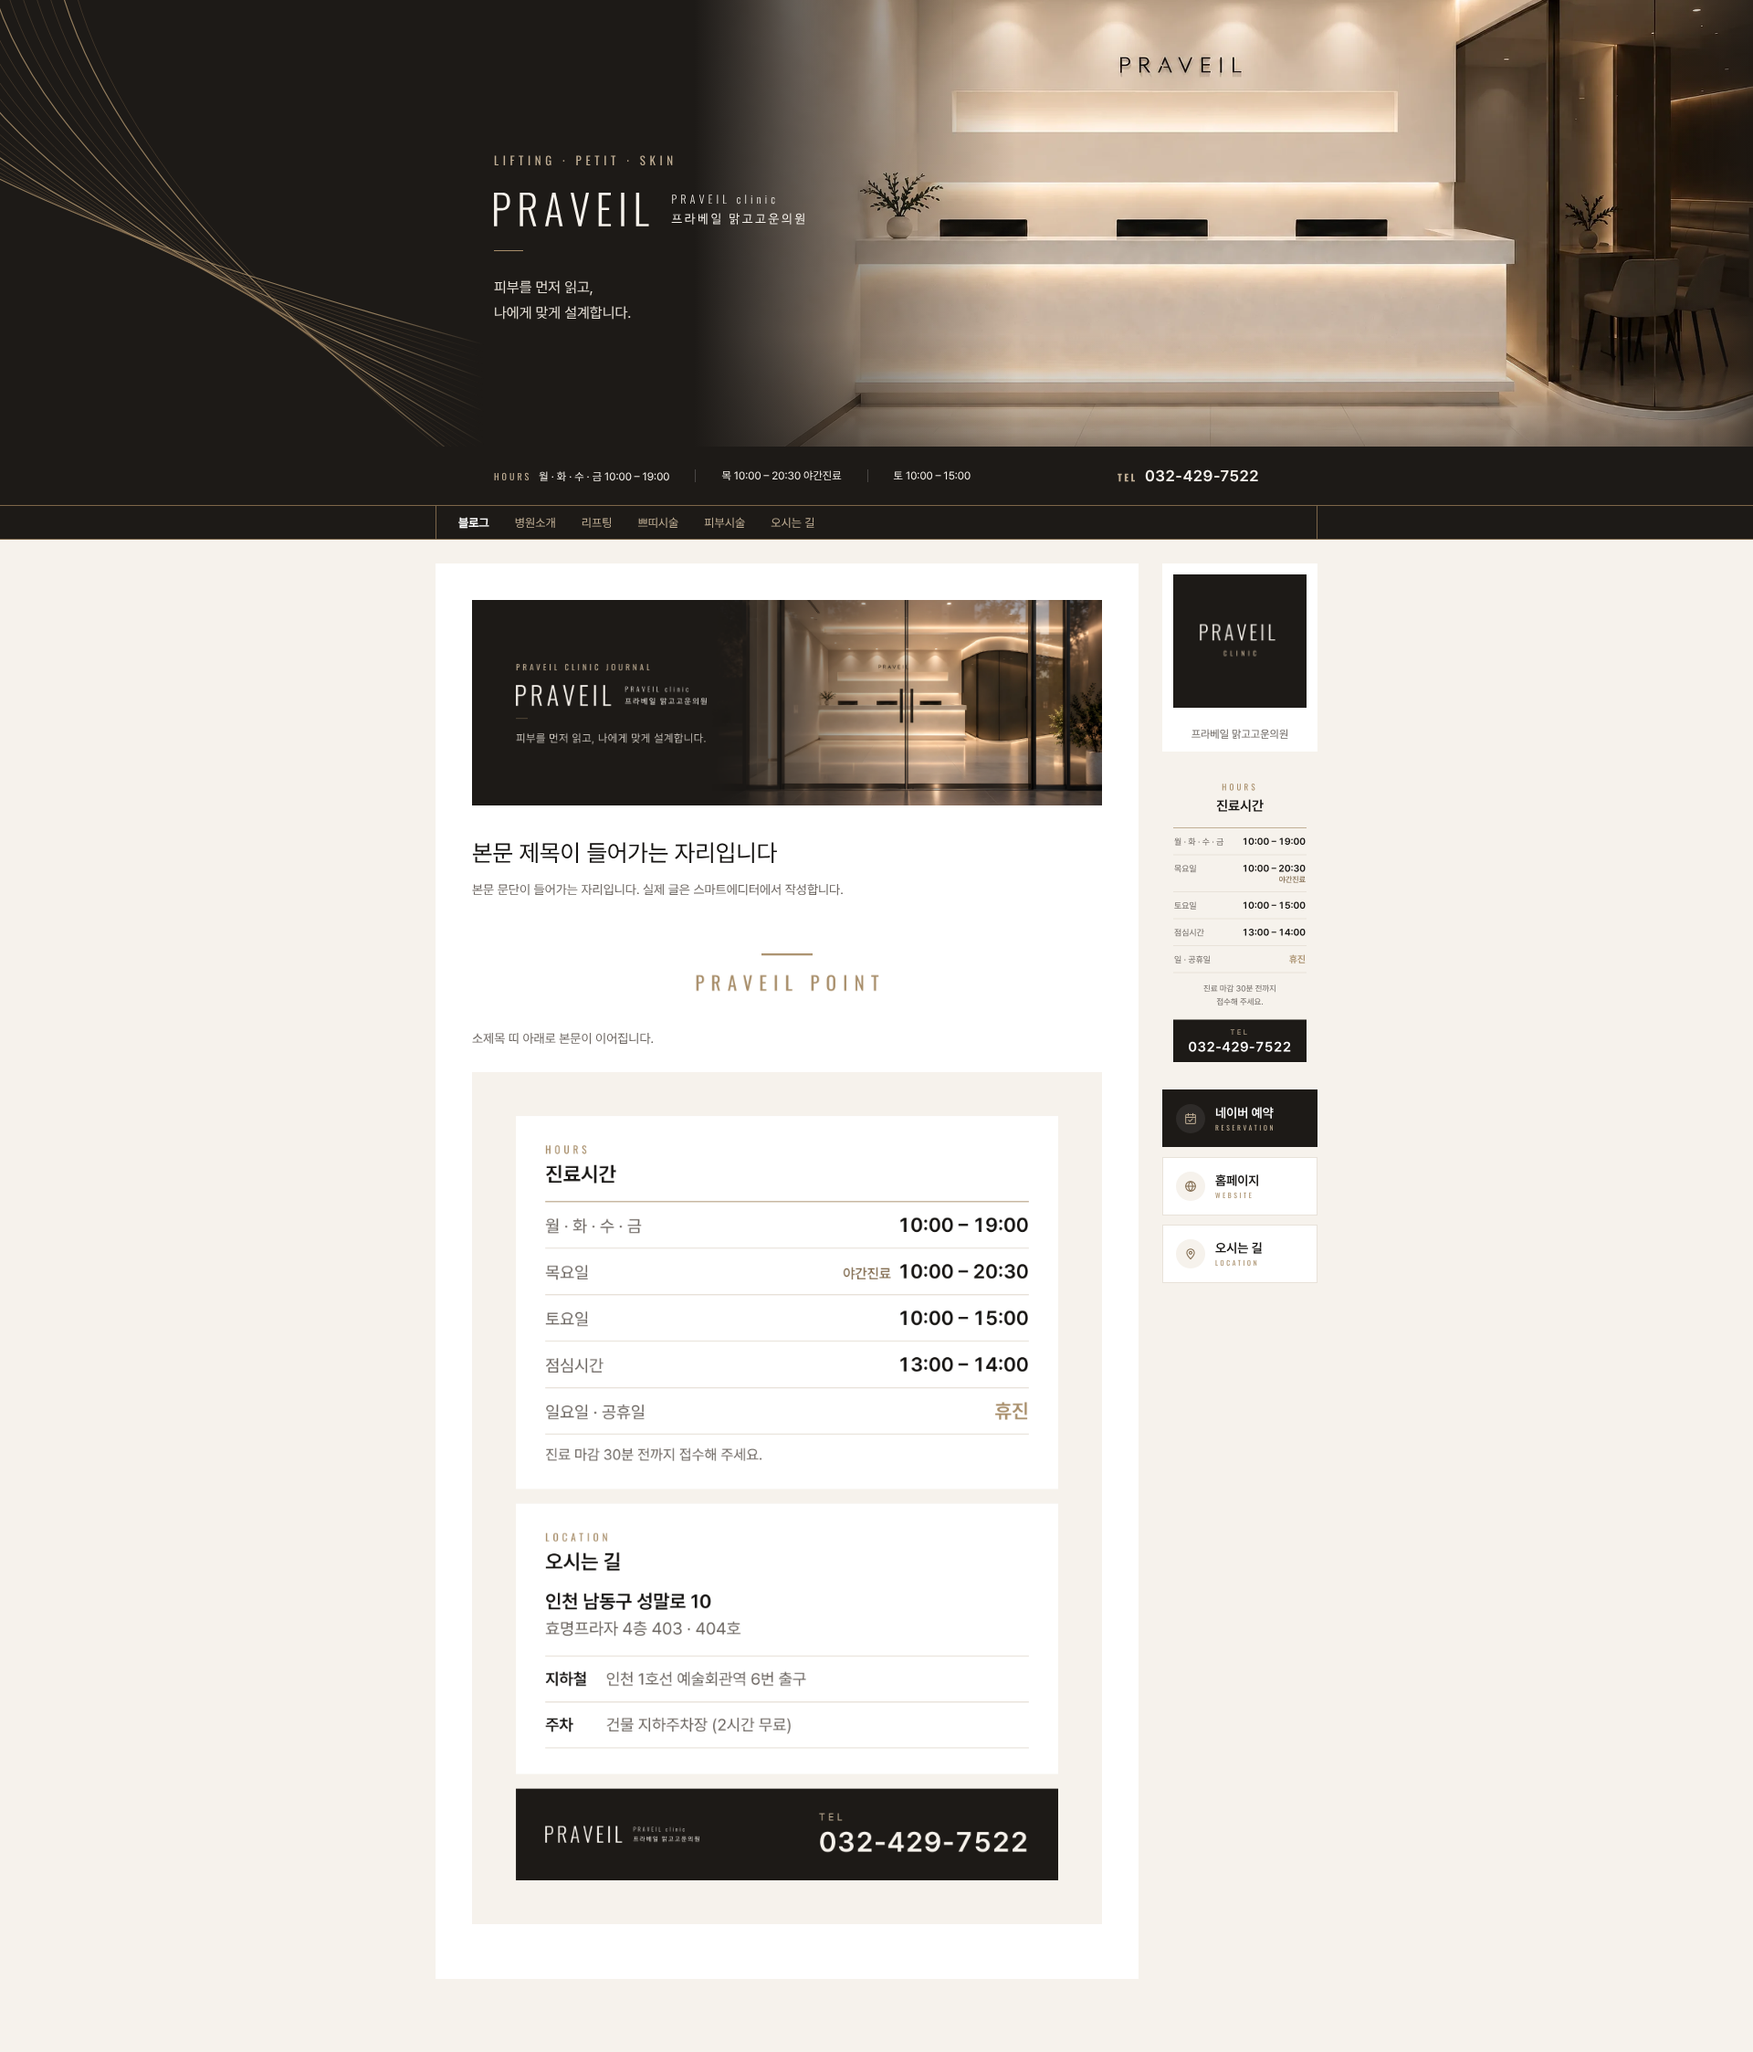
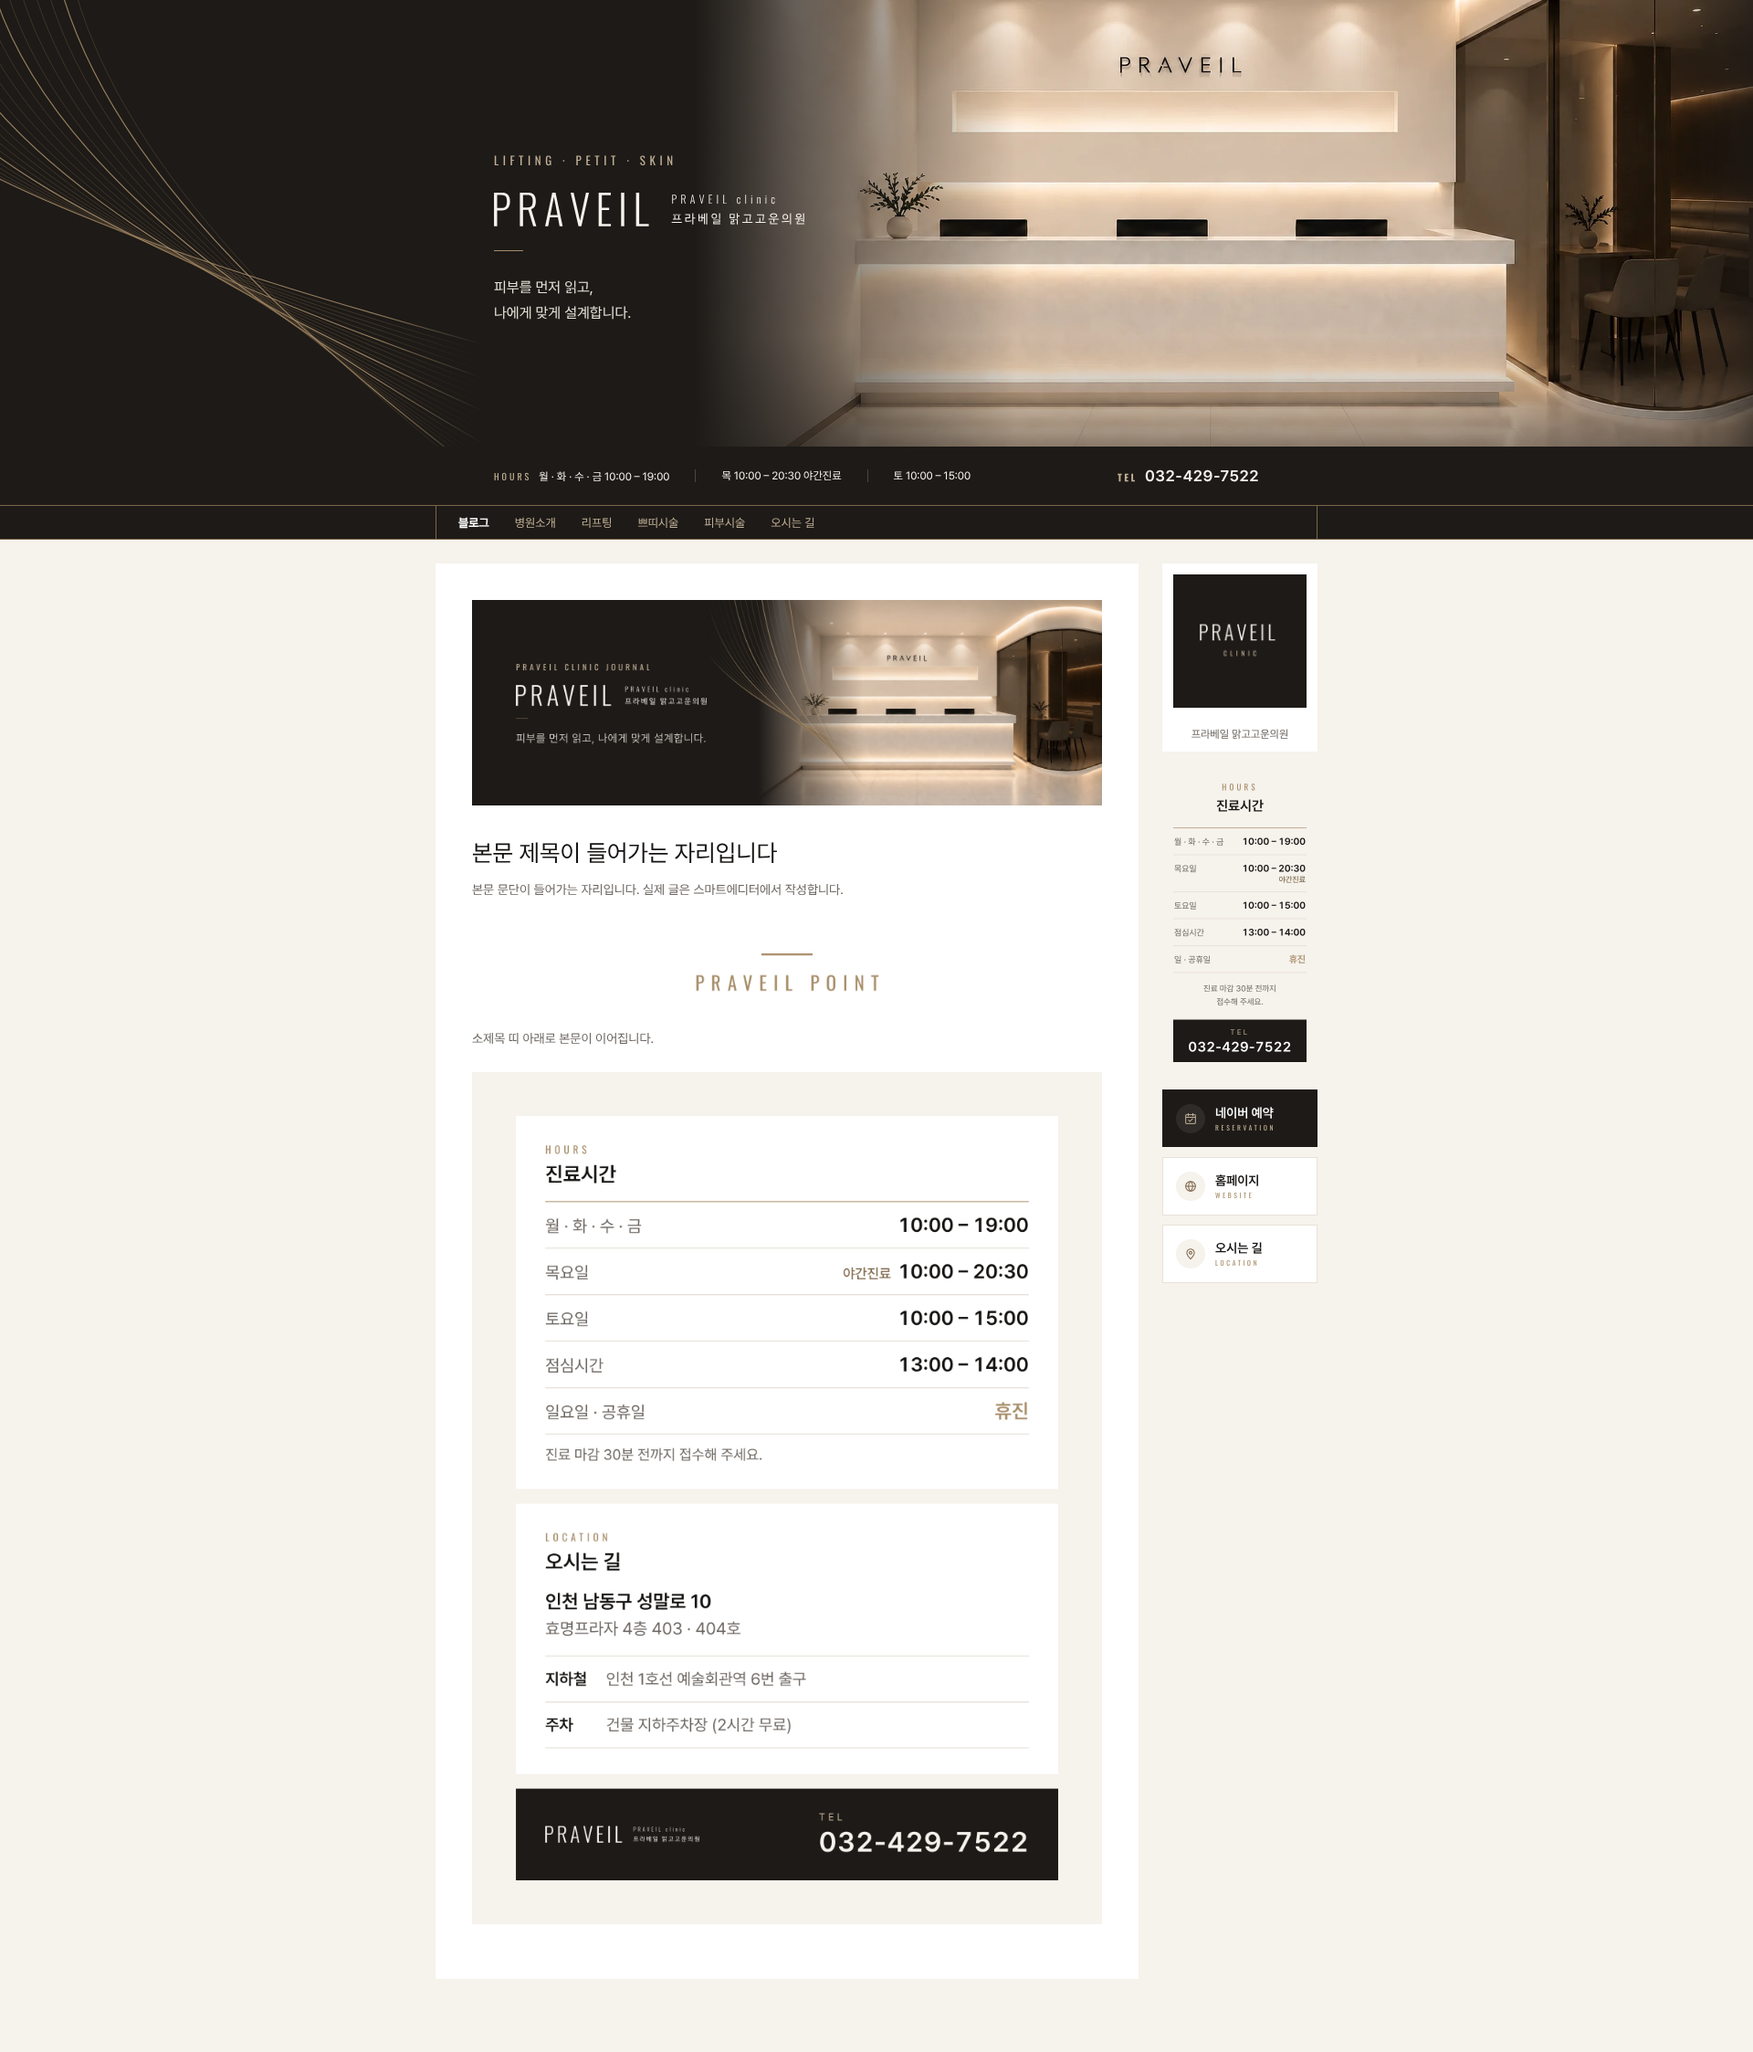
네이버 블로그 글 머리를 PC 머리(로비 사진 · 비단 곡선)와 같은 느낌으로
Claude-Session: https://claude.ai/code/session_01Ld2YJmc6iArSkVBjrjkKUN

Changed region(s): [[0.4062, 0.2804, 0.625, 0.405]]

diff --git a/docs/naver-blog-skin/skin.html b/docs/naver-blog-skin/skin.html
@@ -386,25 +386,61 @@
       }
 
       /* ── 5. 글 머리 · 글 꼬리 (본문 860px, 2배) ── */
+      /* 글 머리: PC 머리와 같은 느낌 (오른쪽 로비 사진 · 짙은 바탕 · 흘러내리는 비단 곡선) */
       #post-header {
         width: 1720px;
         height: 560px;
         background: var(--espresso);
       }
-      #post-header .photo {
-        left: auto;
-        width: 62%;
-        object-position: 50% 45%;
+      #post-header .shot {
+        position: absolute;
+        left: 780px;
+        top: 0;
+        width: 940px;
+        height: 560px;
+        overflow: hidden;
+      }
+      #post-header .shot .photo {
+        object-position: 50% 55%;
       }
       #post-header .fade {
         position: absolute;
         inset: 0;
         background: linear-gradient(
           90deg,
-          var(--espresso) 38%,
+          var(--espresso) 45.3%,
           rgba(29, 26, 23, 0.55) 52%,
-          rgba(29, 26, 23, 0) 72%
+          rgba(29, 26, 23, 0) 62%
         );
+      }
+      #post-header .pattern {
+        position: absolute;
+        left: 0;
+        top: 0;
+        -webkit-mask-image: linear-gradient(
+          90deg,
+          transparent 640px,
+          #000 760px,
+          #000 940px,
+          transparent 1080px
+        );
+        mask-image: linear-gradient(
+          90deg,
+          transparent 640px,
+          #000 760px,
+          #000 940px,
+          transparent 1080px
+        );
+      }
+      #post-header .pattern .lo {
+        stroke: var(--mocha);
+        stroke-width: 1.3;
+        stroke-opacity: 0.5;
+      }
+      #post-header .pattern .hi {
+        stroke: var(--gold);
+        stroke-width: 2;
+        stroke-opacity: 0.85;
       }
       #post-header .copy {
         position: absolute;
@@ -431,7 +467,6 @@
         letter-spacing: 0.04em;
       }
 
-      /* 글 꼬리: 휴대폰에서는 약 1/5 크기로 보여서 한 줄로 쌓고 글자를 크게 (본문 44px 이상) */
       #post-footer {
         width: 1720px;
         background: var(--ivory);
@@ -792,10 +827,38 @@
       <p class="en">Clinic</p>
     </section>
 
-    <!-- 5. 글 머리 -->
+    <!-- 5. 글 머리: PC 머리와 같은 느낌 -->
     <section class="asset" id="post-header">
-      <img class="photo" src="../../public/images/photos/hero-entrance.webp" />
+      <div class="shot">
+        <img class="photo" src="../../public/images/photos/hero-lobby.webp" />
+      </div>
       <div class="fade"></div>
+      <svg class="pattern" width="1720" height="560" viewBox="0 0 1720 560">
+        <g fill="none">
+          <path class="hi" d="M560 -40 C 590 160, 760 300, 1140 440" />
+          <path class="lo" d="M575 -40 C 605 160, 768 304, 1140 447" />
+          <path class="lo" d="M590 -40 C 620 160, 775 308, 1140 454" />
+          <path class="lo" d="M605 -40 C 635 160, 782 311, 1140 460" />
+          <path class="lo" d="M620 -40 C 650 160, 790 315, 1140 467" />
+          <path class="hi" d="M635 -40 C 665 160, 798 319, 1140 474" />
+          <path class="lo" d="M650 -40 C 680 160, 805 322, 1140 480" />
+          <path class="lo" d="M665 -40 C 695 160, 812 326, 1140 487" />
+          <path class="lo" d="M680 -40 C 710 160, 820 330, 1140 494" />
+          <path class="lo" d="M695 -40 C 725 160, 828 334, 1140 501" />
+          <path class="hi" d="M710 -40 C 740 160, 835 338, 1140 508" />
+          <path class="lo" d="M725 -40 C 755 160, 842 341, 1140 514" />
+          <path class="lo" d="M740 -40 C 770 160, 850 345, 1140 521" />
+          <path class="lo" d="M755 -40 C 785 160, 858 349, 1140 528" />
+          <path class="lo" d="M770 -40 C 800 160, 865 352, 1140 534" />
+          <path class="hi" d="M785 -40 C 815 160, 872 356, 1140 541" />
+          <path class="lo" d="M800 -40 C 830 160, 880 360, 1140 548" />
+          <path class="lo" d="M815 -40 C 845 160, 888 364, 1140 555" />
+          <path class="lo" d="M830 -40 C 860 160, 895 368, 1140 562" />
+          <path class="lo" d="M845 -40 C 875 160, 902 371, 1140 568" />
+          <path class="hi" d="M860 -40 C 890 160, 910 375, 1140 575" />
+          <path class="lo" d="M875 -40 C 905 160, 918 379, 1140 582" />
+        </g>
+      </svg>
       <div class="copy">
         <p class="en">Praveil Clinic Journal</p>
         <div class="logo">{{LOGO}}</div>
